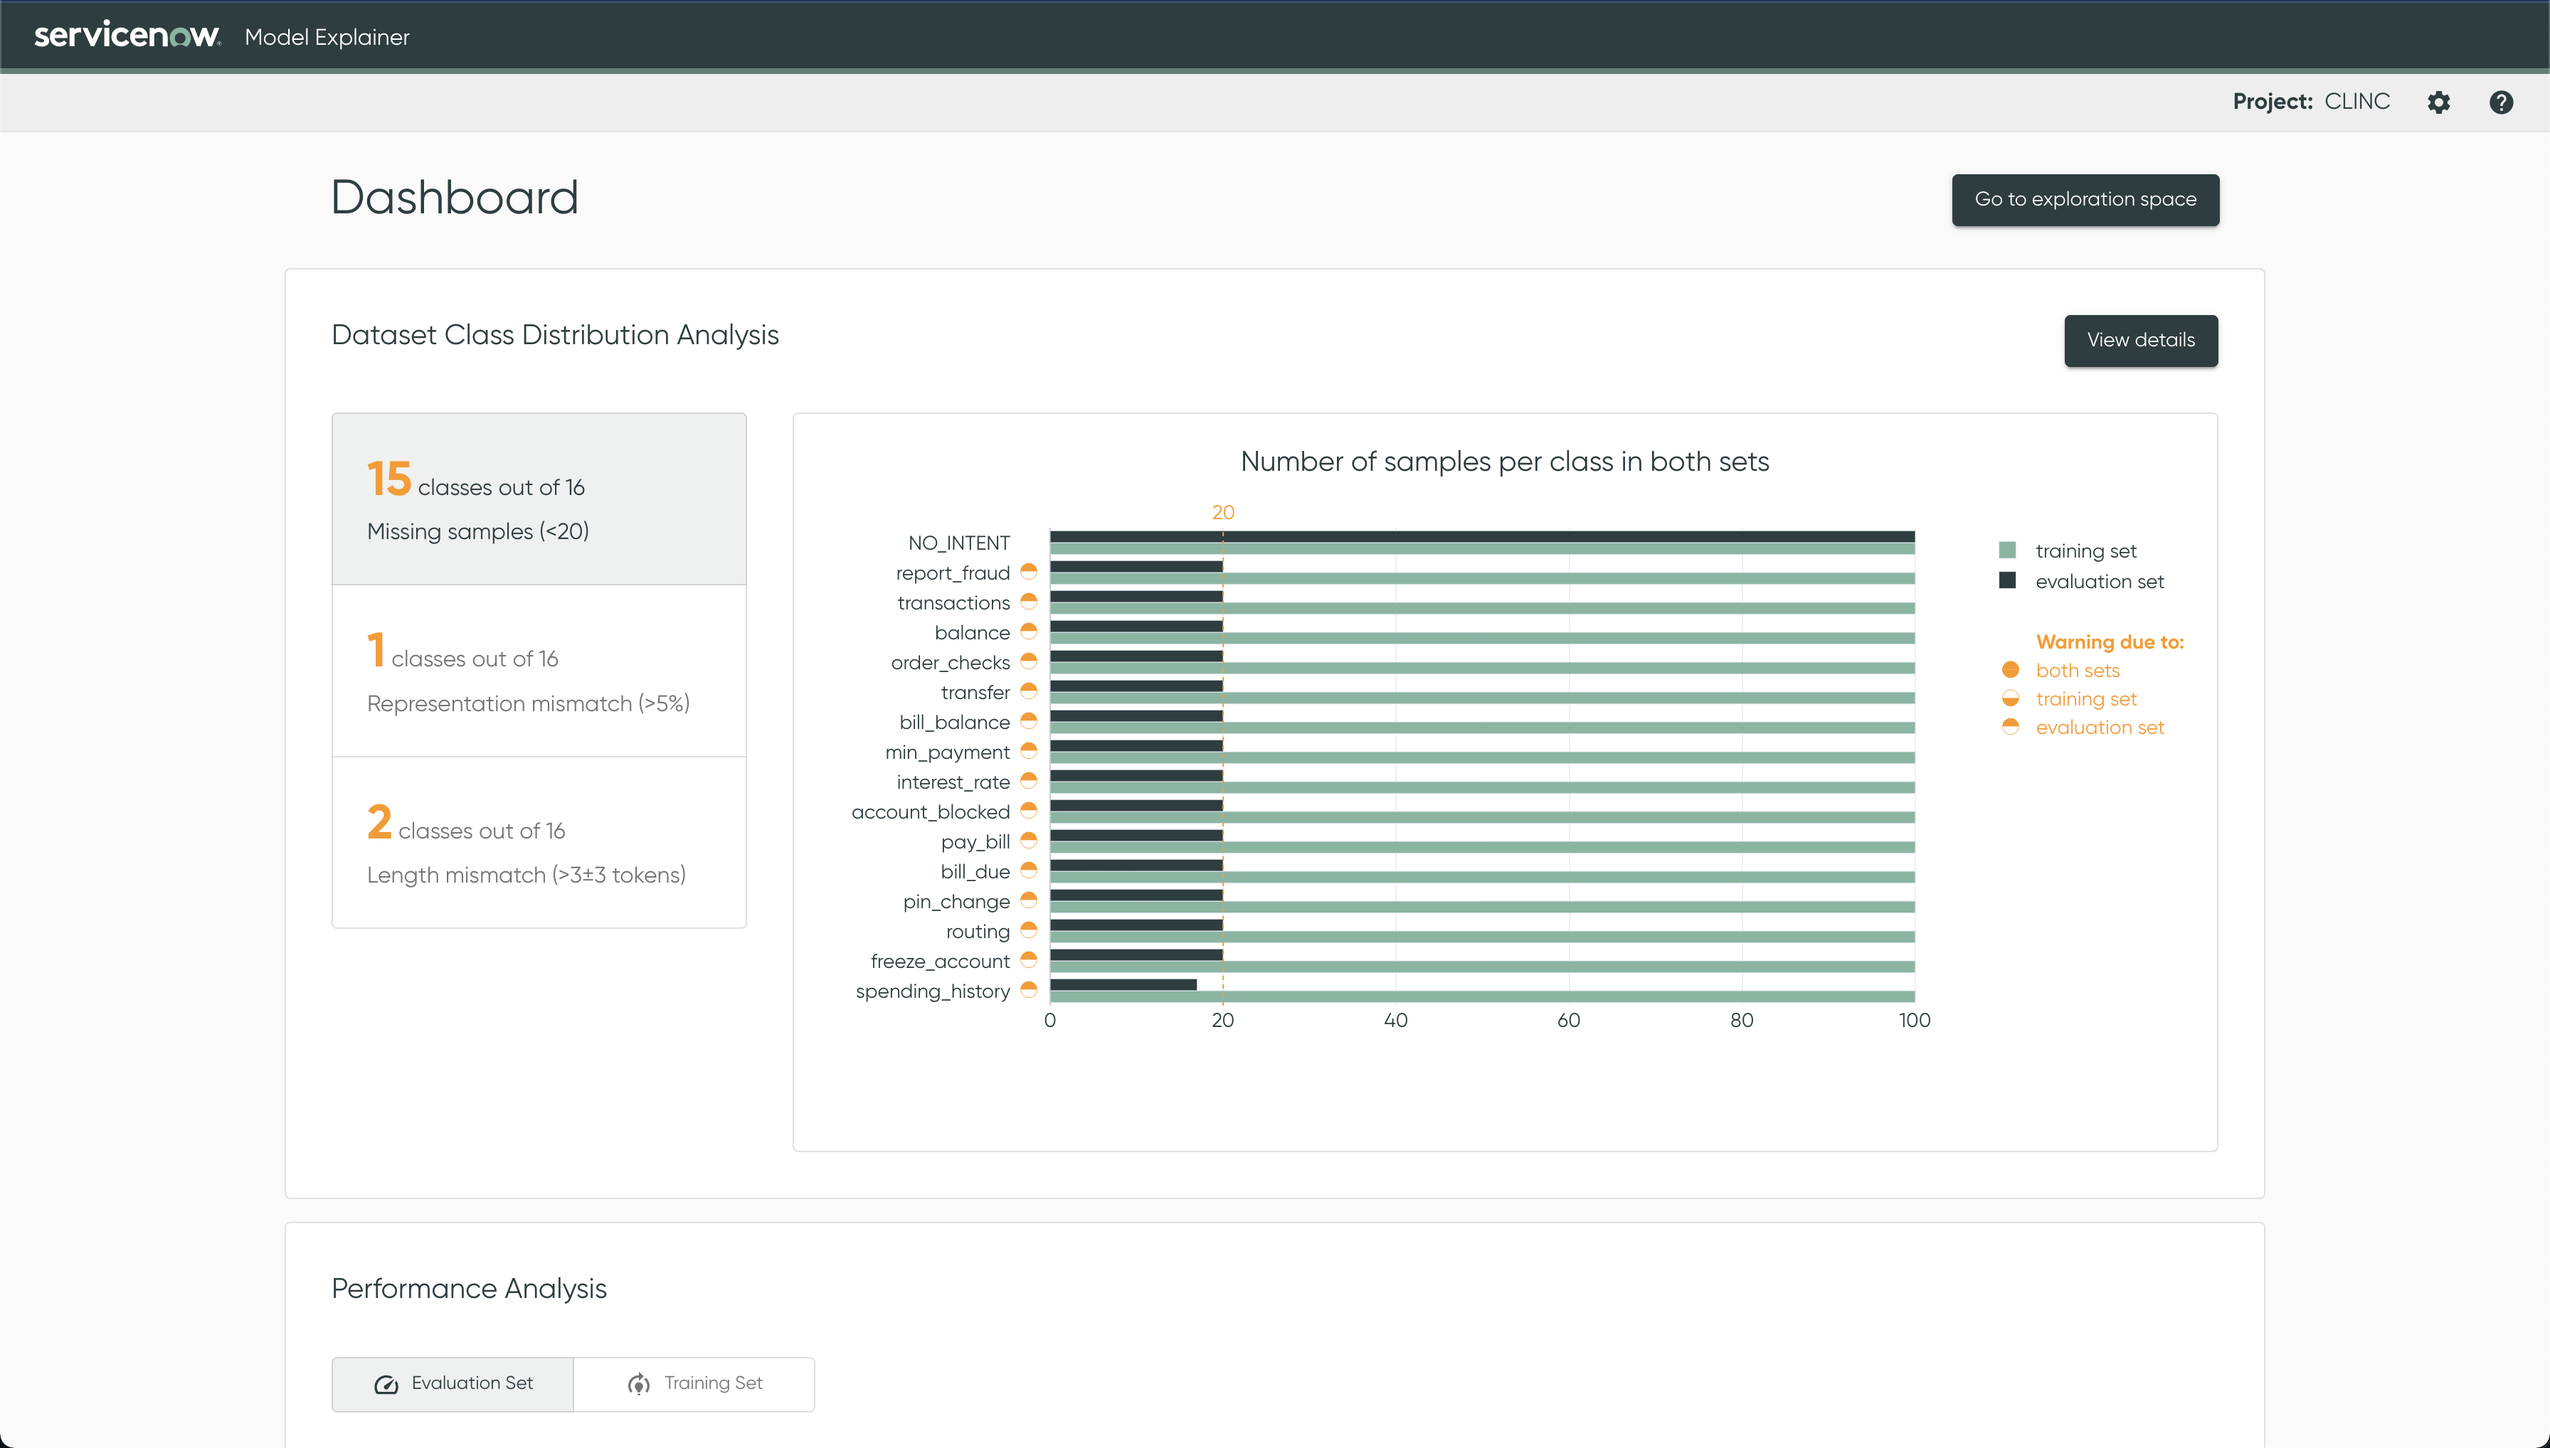
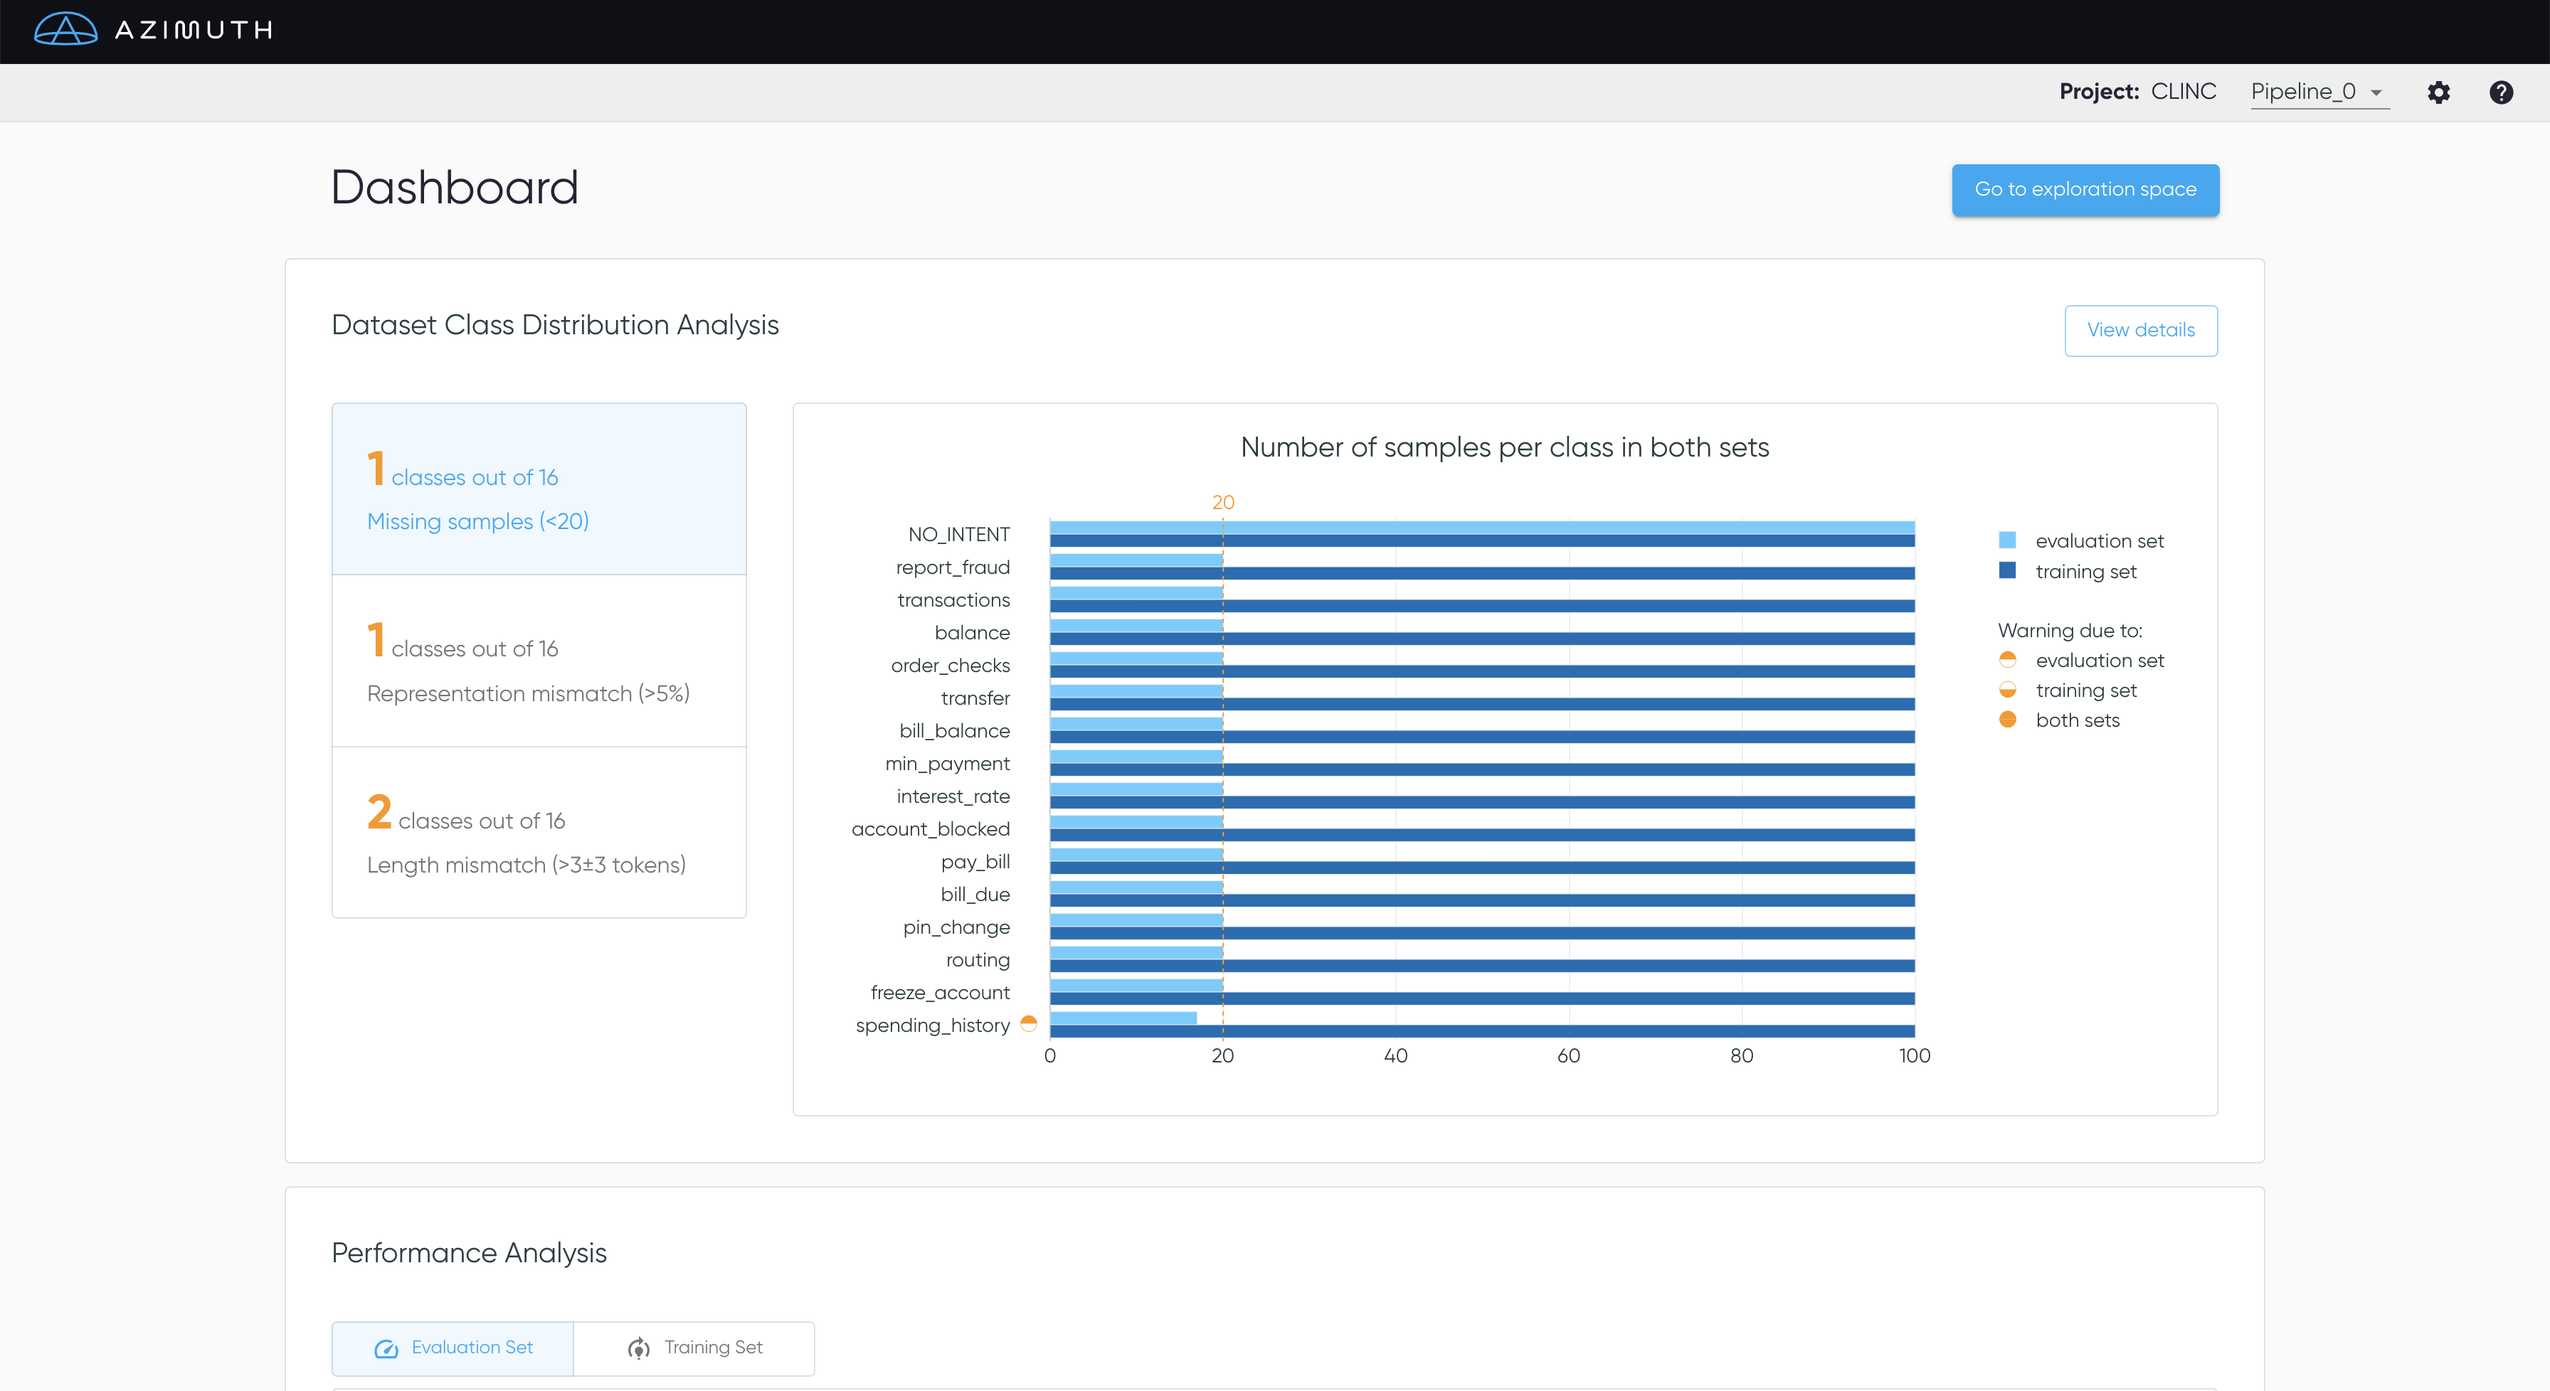
Update screenshots and latest features

diff --git a/webapp/src/components/ThresholdPlot.tsx b/webapp/src/components/ThresholdPlot.tsx
@@ -1,9 +1,9 @@
 import {
-  CircularProgress,
   alpha,
+  Box,
+  CircularProgress,
   Tooltip,
   Typography,
-  Box,
 } from "@mui/material";
 import makeStyles from "@mui/styles/makeStyles";
 import React from "react";
@@ -18,12 +18,12 @@ const yTicks = Array.from(Array(yIntervals + 1), (_, i) => 1 - i / yIntervals);
 
 const majorGridLines: { [y: number]: { tooltip: string; label: string } } = {
   0.9: {
-    tooltip: "Red bar should not exceed this line to meet goals",
-    label: "Max Incorrect",
+    tooltip: "Red bar should ideally not exceed this line",
+    label: "Target for Incorrect & Predicted",
   },
   0.7: {
-    tooltip: "Green bar should exceed this line to meet goals",
-    label: "Min Correct",
+    tooltip: "Green bars should ideally exceed this line",
+    label: "Target for Correct",
   },
 };
 

diff --git a/webapp/src/components/Controls/Controls.tsx b/webapp/src/components/Controls/Controls.tsx
@@ -270,7 +270,7 @@ const Controls: React.FC<Props> = ({
           <Box marginTop={1} sx={{ overflowY: "auto", overflowX: "hidden" }}>
             <>
               <FilterSelector
-                label="Outcome"
+                label="Prediction Outcome"
                 maxCount={maxCount}
                 searchValue={searchValue}
                 selectedOptions={filters.outcomes || []}

diff --git a/docs/docs/user-guide/exploration-space/index.md b/docs/docs/user-guide/exploration-space/index.md
@@ -6,16 +6,28 @@ trigger further work to improve the model's performance.
 
 ![Screenshot](../../_static/images/exploration-space/performance-overview.png)
 
+!!! tip
+
+    Access this space through the header of the dashboard.
+
+    ![Screenshot](../../_static/images/dashboard/top-banner.png)
+
 ## Views
 
 Interact with the Exploration Space in different views. Filter the data on any view with the control
 panel. Both training and evaluation sets can be explored.
 
+!!! tip
+
+    Don't forget the pipeline dropdown in the top banner to see how the performance of different
+    pipelines compare. This space also exists without selecting any pipelines to perform dataset
+    analysis.
+
 ### [Performance Overview](performance-overview.md)
 
 * Assess the quality of the metrics for any given subset of the data.
-* Visualize the distribution of the confidences score, according to the outcome.
-* See the most important words from the utterances, according to the outcome.
+* Visualize the distribution of the confidences score, according to the prediction outcome.
+* See the most important words from the utterances, according to the prediction outcome.
 
 ### [Confusion Matrix](confusion-matrix.md)
 
@@ -42,7 +54,7 @@ All views are affected by the control panel.
 
 ### Evaluation Set and Training Set
 
-![Screenshot](../../_static/images/control-panel/train-eval-toggle.png){: style="width:400px"}
+![Screenshot](../../_static/images/control-panel/dataset-toggle.png){: style="width:400px"}
 
 Explore the views on both the evaluation and the training set by clicking the toggle. Clicking on a
 tab will update the view.
@@ -55,10 +67,12 @@ filters are listed below.
 
 #### Filter Categories
 
+![Screenshot](../../_static/images/control-panel/utterances-search.png){: style="width:200px"}
+
 * **Search a particular string** to filter utterances that contains it.
 * Filter predictions based on their **confidence value**. You can specify a minimum and a maximum
   value.
-* Filter predictions according to their [**outcomes**](../../key-concepts/outcomes.md).
+* Filter predictions according to their prediction [**outcomes**](../../key-concepts/outcomes.md).
 * Filter by **labeled class** (the target).
 * Filter by **predicted class**.
 * Filter by [**smart tags**](../../key-concepts/smart-tags.md).
@@ -68,9 +82,9 @@ filters are listed below.
 
 ##### Bars Distribution
 
-* The bar distributions to the right of the filters show
-  the [outcome](../../key-concepts/outcomes.md) count for a given filter. Selecting or deselecting
-  filters update the bars based on the current selection.
+* The bar distributions to the right of the filters show the
+  prediction [outcome](../../key-concepts/outcomes.md) count for a given filter. Selecting or
+  deselecting filters update the bars based on the current selection.
   ![Screenshot](../../_static/images/control-panel/bar-distribution.png){: style="width:400px"}
 
 ##### Filters Selection

diff --git a/docs/docs/user-guide/index.md b/docs/docs/user-guide/index.md
@@ -7,12 +7,25 @@ different sections to get a deeper understanding of the dataset and the model.
 
 !!! info
 
-    The top banner contains useful information and links, such as the **project name** from the
-    config file. The [**settings**](settings.md) :gear: allow to enable/disable
-    different analyses. A link to the support Slack channel and to the documentation is available
-    in the help :material-help-circle: option.
+    Azimuth can be launched without any pipelines. All the information related to the pipelines
+    (prediction, behavioral testing and so on) will not be available in all screens. It can also be
+    launched with multiple pipelines. Use the dropdown in the top banner to switch between
+    pipelines.
 
 ![Screenshot](../_static/images/dashboard/dashboard.png)
+
+## Top Banner
+
+The top banner contains useful information and links.
+
+* The **project name** from the config file is shown.
+* A dropdown :material-arrow-down-drop-circle-outline: allows to select the different pipelines
+  defined in the config. It also allows to select no pipelines.
+* The [**settings**](settings.md) :gear: allow to enable/disable different analyses.
+* A link to the support Slack channel and to the documentation is available in the help
+  :material-help-circle: option.
+
+![Screenshot](../_static/images/dashboard/top-banner.png)
 
 !!! tip
 
@@ -37,7 +50,7 @@ to [:material-link: Dataset Class Distribution Analysis](dataset-warnings.md).
 
 ## Performance Analysis
 
-The Performance Analysis section summarizes the model performance in terms of the [**
+The Performance Analysis section summarizes the model performance in terms of the [**prediction
 outcomes**](../key-concepts/outcomes.md) and **metrics** available in Azimuth. Change the value in
 the dropdown :material-arrow-down-drop-circle-outline: to see the metrics broken down per label,
 predicted class, or smart tag. Use the toggle to alternate between the performance on the training
@@ -85,9 +98,9 @@ information on tests and the option to export the results.
 ## Post-processing Analysis
 
 The Post-processing Analysis provides an assessment of the performance of one post-processing step:
-the thresholding. The visualization shows the [outcome](../key-concepts/outcomes.md) count on the
-evaluation set for different thresholds. Click `View Details` to see the plot full screen
-in [:material-link: Post-processing Analysis](post-processing-analysis.md).
+the thresholding. The visualization shows the prediction [outcome](../key-concepts/outcomes.md)
+count on the evaluation set for different thresholds. Click `View Details` to see the plot full
+screen in [:material-link: Post-processing Analysis](post-processing-analysis.md).
 
 ![Screenshot](../_static/images/dashboard/post-processing-analysis.png)
 

diff --git a/docs/docs/user-guide/exploration-space/performance-overview.md b/docs/docs/user-guide/exploration-space/performance-overview.md
@@ -12,7 +12,7 @@ to see more information on each metric.
 
 ![Screenshot](../../_static/images/exploration-space/metrics.png)
 
-* The first tile correspond to the performance based on [**
+* The first tile correspond to the performance based on [**prediction
   outcomes**](../../key-concepts/outcomes.md):
     * :material-circle:{ .correct_predicted } **Correct & Predicted**
     * :material-circle:{ .correct_rejected } **Correct & Rejected**
@@ -25,7 +25,7 @@ to see more information on each metric.
 
 ## Confidence Histogram
 
-The Confidence Histogram displays the distribution of model confidences, grouped-by [**
+The Confidence Histogram displays the distribution of model confidences, grouped-by [**prediction
 outcomes**](../../key-concepts/outcomes.md). The threshold, if set in
 the [:material-link: Project Configuration](../../reference/configuration/project.md), is displayed
 on the plot.

diff --git a/docs/docs/getting-started/c-run.md b/docs/docs/getting-started/c-run.md
@@ -3,6 +3,12 @@
 This page guides you through the process of running the app on your data and pipelines, using
 Docker. Different dataset and text classification models can be supported in Azimuth.
 
+!!! info
+
+    Azimuth supports specifying **no pipelines**, to only perform dataset analysis. It also supports
+    supplying **mulitple pipelines**, to allow for quick comparison. However, only one dataset per
+    config is allowed.
+
 The **simplest scenario** is if you have a [**HuggingFace (HF)**](http://www.huggingface.co)
 **dataset** and **model**. For the sake of simplicity, we explain the instructions to run the app
 with this scenario. If your use case is more complex, the following resources will show you how

diff --git a/docs/docs/user-guide/exploration-space/utterance-details.md b/docs/docs/user-guide/exploration-space/utterance-details.md
@@ -14,7 +14,7 @@ The top section shows the utterance details:
 * **Label**: The utterance's labeled class (the target).
 * **Predictions**:
     * The **top 3** predictions for this utterance are shown.
-    * The top prediction is highlighted using the outcome color.
+    * The top prediction is highlighted using the prediction outcome color.
         * If the top prediction was converted to the rejection class based on the threshold, it will
           be added as a 4th element at the top.
 * **Smart tags** (where applicable): An automatically computed tag highlighting a certain

diff --git a/docs/docs/user-guide/exploration-space/confusion-matrix.md b/docs/docs/user-guide/exploration-space/confusion-matrix.md
@@ -7,10 +7,11 @@ given label.
 
 !!! tip
 
-    The [outcomes](../../key-concepts/outcomes.md) colors are shown on the confusion matrix.
+    The prediction [outcomes](../../key-concepts/outcomes.md) colors are shown on the confusion
+    matrix.
 
 ![Screenshot](../../_static/images/exploration-space/confusion-matrix.png)
 
 !!! example
 
-    In this example, 45% of utterances labeled as `bill_due` were predicted as `bill_balance`.
+    In this example, 55% of utterances labeled as `bill_due` were predicted as `bill_balance`.
